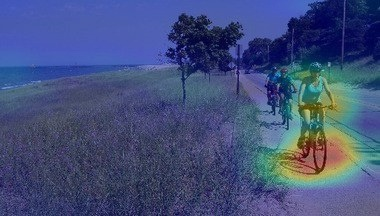
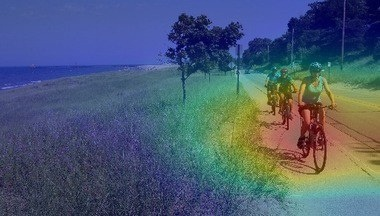
cam

diff --git a/pytorch_CAM.py b/pytorch_CAM.py
@@ -15,12 +15,12 @@ LABELS_URL = 'https://s3.amazonaws.com/outcome-blog/imagenet/labels.json'
 IMG_URL = 'http://media.mlive.com/news_impact/photo/9933031-large.jpg'
 
 # networks such as googlenet, resnet, densenet already use global average pooling at the end, so CAM could be used directly.
-model_id = 1
+model_id = 2
 if model_id == 1:
-    net = models.squeezenet1_1(pretrained=True)
+    net = models.vgg16(pretrained=True)
     finalconv_name = 'features' # this is the last conv layer of the network
 elif model_id == 2:
-    net = models.resnet18(pretrained=True)
+    net = models.resnet34(pretrained=True)
     finalconv_name = 'layer4'
 elif model_id == 3:
     net = models.densenet161(pretrained=True)
